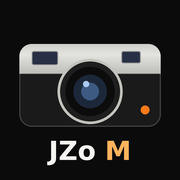
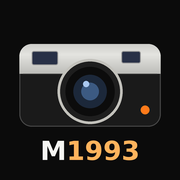
Kamera-App umbenannt: JZo M → M1993
Name in Titel, Startbildschirm, Home-Bildschirm-Name, Icon, EXIF und
Dateinamen (M1993_…jpg). Adresse /kamera/ bleibt gleich. SW-Cache v2.

Claude-Session: https://claude.ai/code/session_01QdTPMN3QBCntRuE6UL26GR

Changed region(s): [[0.2222, 0.7778, 0.7778, 0.9444]]

diff --git a/kamera/index.html b/kamera/index.html
@@ -3,8 +3,8 @@
 <head>
 <meta charset="UTF-8">
 <meta name="viewport" content="width=device-width, initial-scale=1.0, viewport-fit=cover, user-scalable=no">
-<title>JZo M</title>
-<meta name="description" content="JZo M – Messsucher-Kamera mit klassischen Looks und KI-Auflösung. JZo Entertainment.">
+<title>M1993</title>
+<meta name="description" content="M1993 – Messsucher-Kamera mit klassischen Looks und KI-Auflösung. JZo Entertainment.">
 <meta name="robots" content="noindex">
 <link rel="icon" href="img/icon-192.png" type="image/png">
 <link rel="manifest" href="manifest.webmanifest">
@@ -12,7 +12,7 @@
 <meta name="apple-mobile-web-app-capable" content="yes">
 <meta name="mobile-web-app-capable" content="yes">
 <meta name="apple-mobile-web-app-status-bar-style" content="black-translucent">
-<meta name="apple-mobile-web-app-title" content="JZo M">
+<meta name="apple-mobile-web-app-title" content="M1993">
 <meta name="theme-color" content="#0b0b0b">
 <link rel="stylesheet" href="css/kamera.css">
 </head>
@@ -37,7 +37,7 @@
     <div class="start" id="start">
       <div class="start-in">
         <div class="cam-ill" aria-hidden="true"><span class="win"></span><span class="lens"></span><span class="win2"></span></div>
-        <h1>JZo <b>M</b></h1>
+        <h1>M<b>1993</b></h1>
         <p>Messsucher-Kamera · Looks · KI-Auflösung</p>
         <button class="power" id="power-btn" type="button"><span class="pw-dot"></span> Einschalten</button>
         <button class="link" id="start-gal" type="button">Nur Fotos ansehen / importieren</button>

diff --git a/kamera/js/jpeg.js b/kamera/js/jpeg.js
@@ -34,7 +34,7 @@ JPEG encoder ported to JavaScript and optimized by Andreas Ritter, www.bytestrom
 
 Basic GUI blocking jpeg encoder
 */
-/* Angepasst für JZo M: Ausgabe in Byte-Blöcken, zeilenweise Verarbeitung (wenig Speicher,
+/* Angepasst für M1993: Ausgabe in Byte-Blöcken, zeilenweise Verarbeitung (wenig Speicher,
    auch für Bilder über der Canvas-Grenze des iPhones), 4:2:0-Unterabtastung, EXIF. */
 (function (global) {
 'use strict';
@@ -718,7 +718,7 @@ function JPEGEncoder(quality) {
 global.JPEGStream = JPEGEncoder;
 })(this);
 
-/* EXIF-Block (Aufnahmedatum, Kamera „JZo M“, Look) – damit Fotos-App Datum & Infos richtig zeigt. */
+/* EXIF-Block (Aufnahmedatum, Kamera „M1993“, Look) – damit Fotos-App Datum & Infos richtig zeigt. */
 (function (global) {
   'use strict';
   function ascii(s) { s = String(s).replace(/[^\x20-\x7e]/g, '?'); var a = []; for (var i = 0; i < s.length; i++) a.push(s.charCodeAt(i)); a.push(0); return a; }
@@ -732,9 +732,9 @@ global.JPEGStream = JPEGEncoder;
     var ifd0 = [
       [0x010E, 2, ascii(o.desc || '')],          // ImageDescription
       [0x010F, 2, ascii(o.make || 'JZo Entertainment')],
-      [0x0110, 2, ascii(o.model || 'JZo M')],
+      [0x0110, 2, ascii(o.model || 'M1993')],
       [0x0112, 3, 1],                             // Orientation
-      [0x0131, 2, ascii(o.software || 'JZo M')],
+      [0x0131, 2, ascii(o.software || 'M1993')],
       [0x0132, 2, ascii(date)],
       [0x8769, 4, 0]                              // ExifIFD-Zeiger (wird unten gesetzt)
     ];

diff --git a/kamera/js/app.js b/kamera/js/app.js
@@ -1,4 +1,4 @@
-/* JZo M – Oberfläche: Sucher, Wählräder, Auslösen, Fotos, Entwickeln, KI-Auflösung, Menü. */
+/* M1993 – Oberfläche: Sucher, Wählräder, Auslösen, Fotos, Entwickeln, KI-Auflösung, Menü. */
 (function () {
   'use strict';
   var L = window.Looks;
@@ -31,7 +31,7 @@
   function toast(t, ms) { var e = $('toast'); e.textContent = t; e.classList.add('on'); clearTimeout(toastT); toastT = setTimeout(function () { e.classList.remove('on'); }, ms || 2200); }
   function fileName(t, suffix) {
     var d = new Date(t); function p(n) { return (n < 10 ? '0' : '') + n; }
-    return 'JZoM_' + d.getFullYear() + p(d.getMonth() + 1) + p(d.getDate()) + '_' + p(d.getHours()) + p(d.getMinutes()) + p(d.getSeconds()) + (suffix || '') + '.jpg';
+    return 'M1993_' + d.getFullYear() + p(d.getMonth() + 1) + p(d.getDate()) + '_' + p(d.getHours()) + p(d.getMinutes()) + p(d.getSeconds()) + (suffix || '') + '.jpg';
   }
   function decode(blob) {
     if (window.createImageBitmap) return createImageBitmap(blob).catch(function () { return viaImg(blob); });
@@ -58,7 +58,7 @@
   }
   function exifFor(set, w, hh, extra) {
     var lk = L.byId(set.look);
-    return Exif.build({ desc: 'JZo M - Look ' + (lk ? lk.name : '') + (extra || ''), w: w, h: hh, date: new Date() });
+    return Exif.build({ desc: 'M1993 - Look ' + (lk ? lk.name : '') + (extra || ''), w: w, h: hh, date: new Date() });
   }
 
   // ---------- WebGL ----------

diff --git a/kamera/sw.js b/kamera/sw.js
@@ -1,8 +1,8 @@
-/* JZo M – Offline-Unterstützung.
+/* M1993 – Offline-Unterstützung.
    App-Dateien: erst Netz (neueste Version), ohne Netz die gespeicherte Kopie.
    KI-Dateien (vendor/, models/): einmal laden, dann aus dem Speicher (groß, ändern sich nicht).
    Bei Änderungen an App-Dateien CACHE hochzählen. */
-var CACHE = 'jzo-kamera-v1';
+var CACHE = 'jzo-kamera-v2';
 var AI_CACHE = 'jzo-kamera-ki-v1';
 var FILES = [
   './', 'index.html', 'manifest.webmanifest', 'css/kamera.css',

diff --git a/kamera/js/gl.js b/kamera/js/gl.js
@@ -1,4 +1,4 @@
-/* JZo M – Bildentwicklung per WebGL (Vorschau live + volle Auflösung, auch streifenweise für KI-Bilder).
+/* M1993 – Bildentwicklung per WebGL (Vorschau live + volle Auflösung, auch streifenweise für KI-Bilder).
    Ein Durchgang: Zuschnitt/Drehung → Schärfe → Weißabgleich/Belichtung → Lichter/Schatten →
    (Schwarzweiß) → Kontrastkurve → Farben/Tönung → Vignette → Korn → (Fokus-Peaking, nur Vorschau). */
 (function (global) {

diff --git a/kamera/js/ai.js b/kamera/js/ai.js
@@ -1,4 +1,4 @@
-/* JZo M – KI-Auflösung („AI Resolution“): rechnet Fotos mit einem neuronalen Netz (ESRGAN/RDN,
+/* M1993 – KI-Auflösung („AI Resolution“): rechnet Fotos mit einem neuronalen Netz (ESRGAN/RDN,
    UpscalerJS-Modelle, MIT-Lizenz) auf 2× oder 4× hoch. Läuft komplett auf dem Gerät (TensorFlow.js + WebGL),
    kein Server, keine Kosten. Die Datei liegt im Ordner models/ und vendor/ und wird erst beim ersten Gebrauch geladen.
 

diff --git a/kamera/js/store.js b/kamera/js/store.js
@@ -1,4 +1,4 @@
-/* JZo M – Fotos auf dem Gerät speichern (IndexedDB „jzo-kamera“).
+/* M1993 – Fotos auf dem Gerät speichern (IndexedDB „jzo-kamera“).
    photos: { id, t, w, h, src:'kamera'|'import', set:{look,adj,wb,ev,iso,time,seed},
              orig: Blob (ohne Look), out: Blob (fertiges JPEG), thumb: Blob, big?: Blob, bigW, bigH } */
 (function (global) {

diff --git a/kamera/js/looks.js b/kamera/js/looks.js
@@ -1,4 +1,4 @@
-/* JZo M – Bildstile ("Looks"), Weißabgleich, Wählräder.
+/* M1993 – Bildstile ("Looks"), Weißabgleich, Wählräder.
    Die Looks sind eigene Nachbauten im Stil klassischer Messsucher-Kameras – keine Original-Dateien
    eines Herstellers. Alle Werte sind Parameter für den Shader in gl.js.
 

diff --git a/kamera/css/kamera.css b/kamera/css/kamera.css
@@ -1,4 +1,4 @@
-/* JZo M – Messsucher-Kamera. Dunkles Design wie ein Kameragehäuse (schwarz, Silber, warmes Akzentlicht). */
+/* M1993 – Messsucher-Kamera. Dunkles Design wie ein Kameragehäuse (schwarz, Silber, warmes Akzentlicht). */
 :root {
   --bg: #0b0b0b;
   --body: #141414;

diff --git a/CLAUDE.md b/CLAUDE.md
@@ -185,7 +185,7 @@ und "es muss einfach funktionieren" sind ihm wichtiger als Tempo.
     Uniform-Limit 64 – bei neuen Shader-Effekten Limit im Blick behalten).
     Design hell (Standard) oder dunkel wie Resolve (⚙).
 
-16. **JZo M** (`kamera/`) – Jans Messsucher-Kamera-App im Stil Leica M10/M11
+16. **M1993** (früher „JZo M“, auf Jans Wunsch umbenannt; Ordner bleibt `kamera/`) – Jans Messsucher-Kamera-App im Stil Leica M10/M11
     (Jan ist großer Fan der Leica-Looks), Link:
     https://eschenbach1234567-hub.github.io/JZoEntertainment-/kamera/
     Eigenständige PWA wie Jam/Video (eigenes Manifest/Icon/SW, `noindex`, nicht
